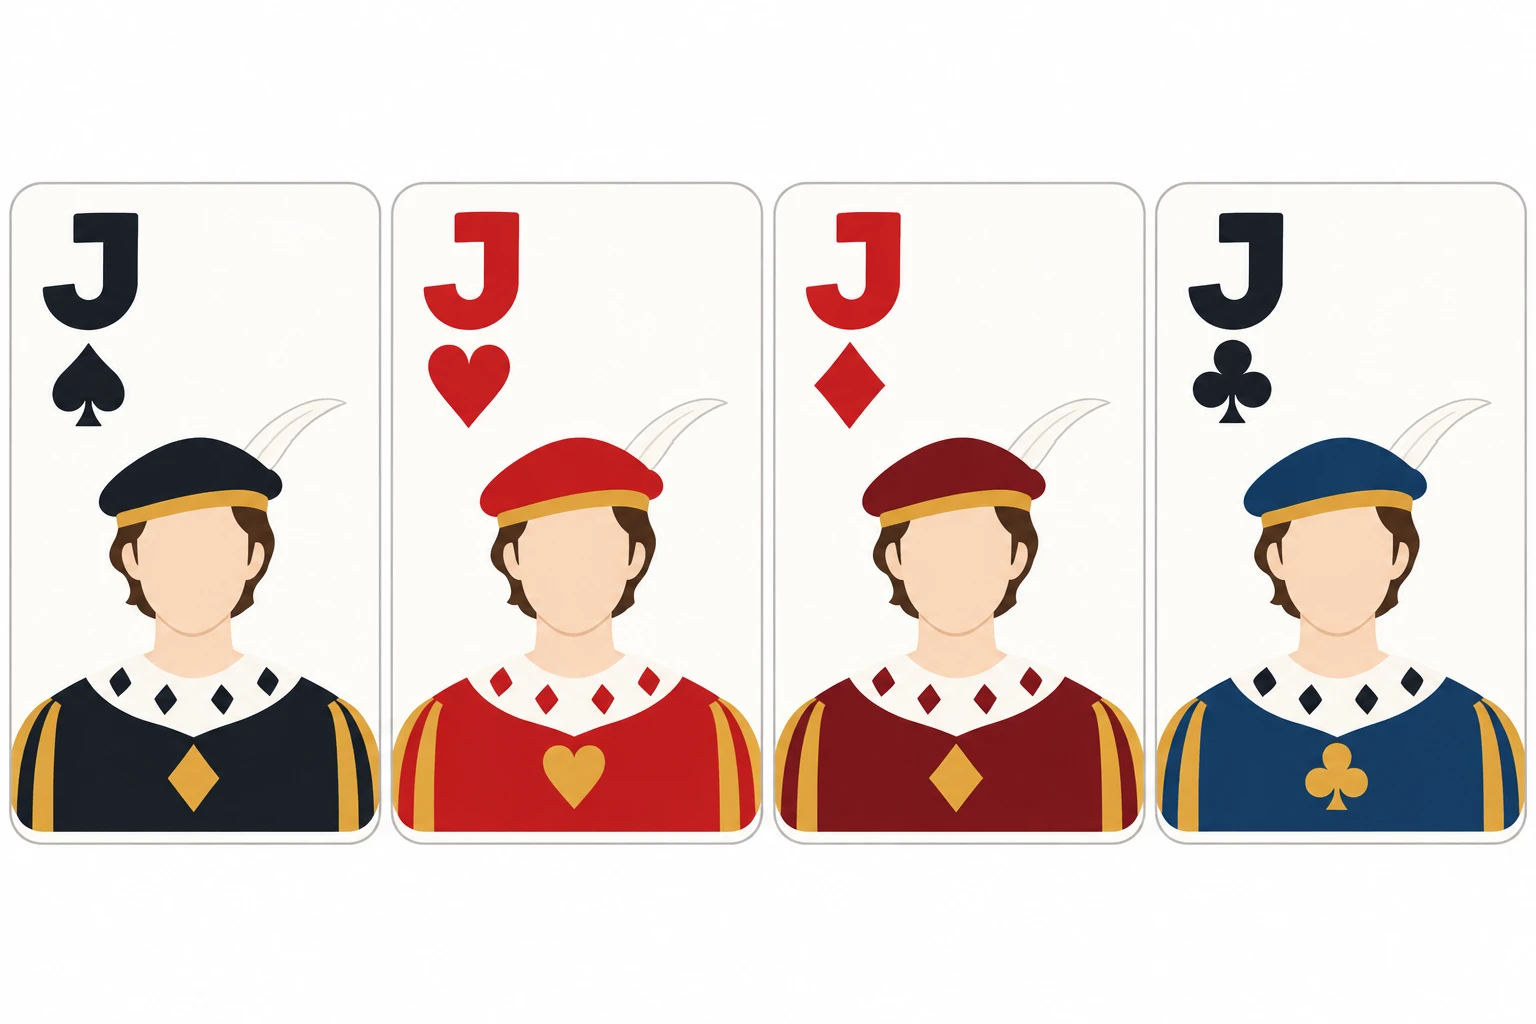
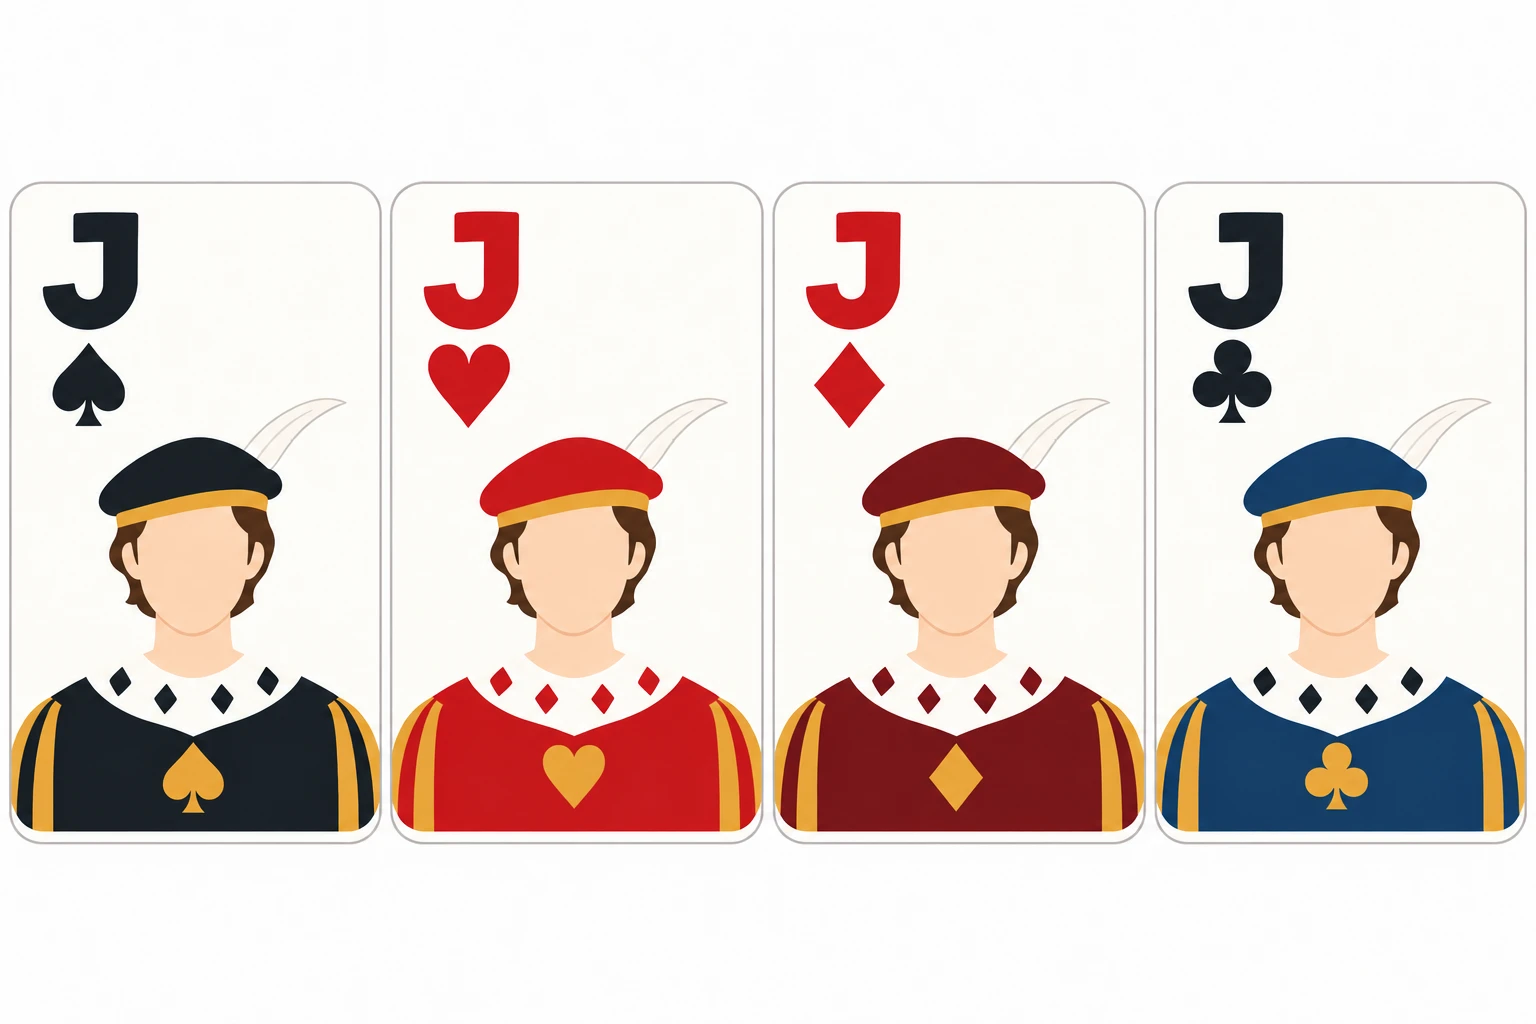
קלפים: נסיכים מעודכנים (♠ על החזה של נסיך העלה) וג'וקר חדש
אותה פריסה ואותם מידות כמו הקבצים הקודמים, כך שערכי החיתוך לא השתנו.
?v=2 בכתובות כדי לעקוף מטמון.

Claude-Session: https://claude.ai/code/session_01NSxUfb7WfLvDTarTAdoMR7

Changed region(s): [[0.0938, 0.7188, 0.1562, 0.8125], [0.5, 0.6875, 0.5312, 0.7188]]

diff --git a/rami-online/src/client/table.css b/rami-online/src/client/table.css
@@ -94,7 +94,7 @@
 .pc:has(.pc-photo) .pc-idx, .pc:has(.pc-photo) .pc-big, .pc-jk { display: none; }
 .pc.r-13 { --art: url(/cards/kings.webp);  --size: 451.16% 106.72%; }
 .pc.r-12 { --art: url(/cards/queens.webp); --size: 451.16% 107.20%; }
-.pc.r-11 { --art: url(/cards/jacks.webp);  --size: 441.38% 160.25%; --l: 11.6%; }
+.pc.r-11 { --art: url(/cards/jacks.webp?v=2);  --size: 441.38% 160.25%; --l: 11.6%; }
 .pc.r-13.s-s { --pos:  2.24% 50%; }
 .pc.r-13.s-h { --pos: 34.14% 50%; }
 .pc.r-13.s-d { --pos: 66.00% 50%; }
@@ -107,7 +107,7 @@
 .pc.r-11.s-h { --pos: 33.87% 50.13%; }
 .pc.r-11.s-d { --pos: 66.08% 50.13%; }
 .pc.r-11.s-c { --pos: 98.15% 50.13%; }
-.pc.joker { --art: url(/cards/joker.webp); --size: 102.81% 101.86%; --pos: 50% 46.43%; --l: 3.44%; }
+.pc.joker { --art: url(/cards/joker.webp?v=2); --size: 102.81% 101.86%; --pos: 50% 46.43%; --l: 3.44%; }
 
 /* Too small for an illustration (the board and the round-end table on a phone,
    ~22–30px): a court card reads like a number card — its letter and one big
